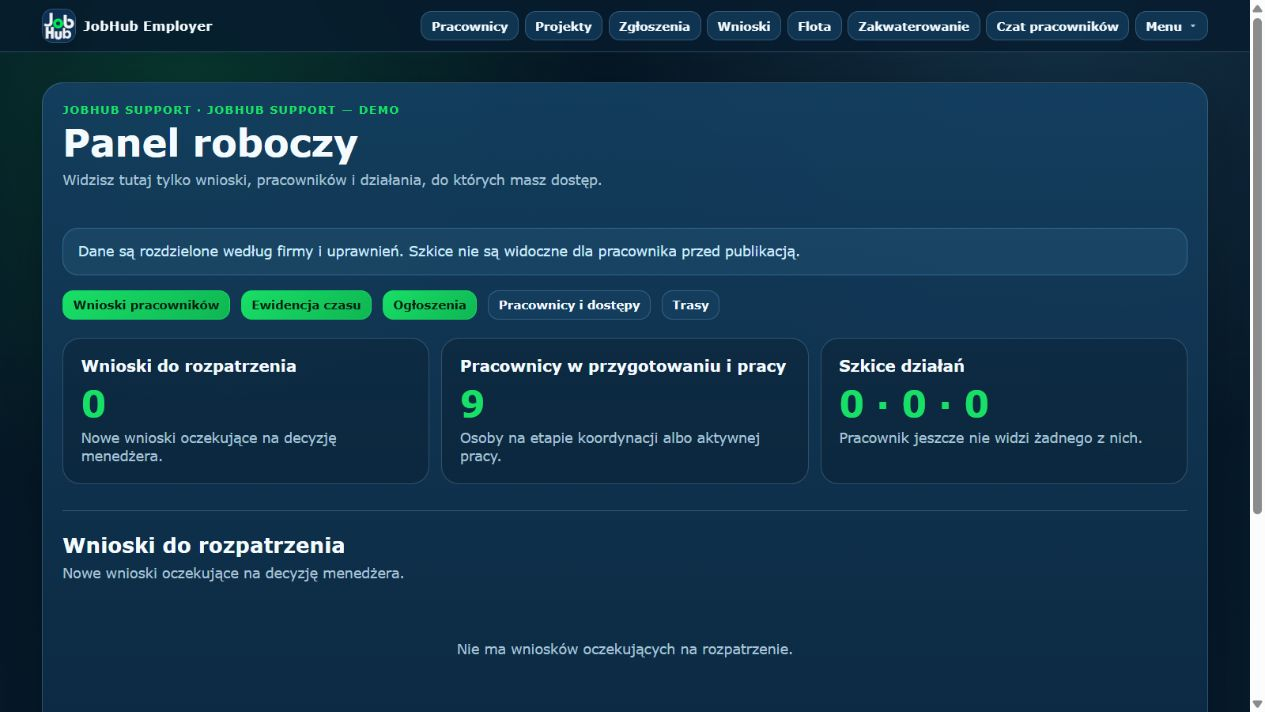
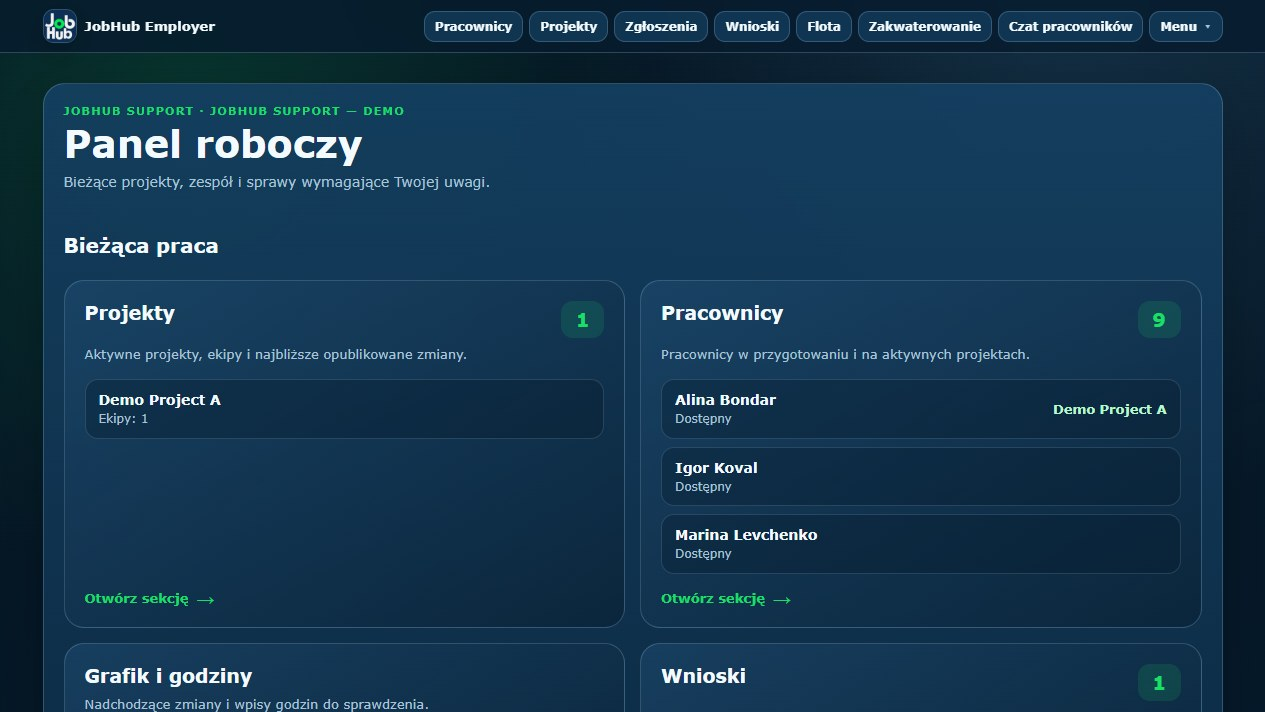
Publish localized JobHub Support guide with updated workspace screenshots

diff --git a/support-guide.html b/support-guide.html
@@ -17,7 +17,7 @@
   <link rel="apple-touch-icon" sizes="180x180" href="/assets/apple-touch-icon.png?v=20260217logo2">
   <link rel="stylesheet" href="/assets/styles.css?v=20260217j">
   <link rel="stylesheet" href="/assets/support-guide.css?v=20261004d">
-  <script defer src="/assets/app.js?v=20261004english-labels"></script>
+  <script defer src="/assets/app.js?v=20261005workspace"></script>
 </head>
 <body>
   <header class="site-header">
@@ -76,7 +76,7 @@
 
       <article class="guide-chapter" id="step-demo"><span class="guide-chapter-number">01</span><div class="guide-chapter-body"><h3><span class="lang-ru">Запросите демо версию</span><span class="lang-en">Request a demo version</span><span class="lang-pl">Poproś o wersję demo</span><span class="lang-uk">Запросіть демоверсію</span></h3><p><span class="lang-ru">Нажмите зелёную кнопку «Запросить демо версию» на этой странице. Откроется письмо в поддержку JobHub. Укажите название фирмы, примерное число одновременно работающих людей, тип проектов и контакт для ответа. Пароли, паспортные данные и документы не отправляйте. Мы согласуем дистанционный показ на вымышленных данных и отдельно обсудим подключение вашей фирмы.</span><span class="lang-en">Press “Request a demo version”. An email to JobHub support opens. Include your company name, approximate number of workers active at once, project type and reply contact. Do not send passwords or HR documents. We arrange a remote demonstration using fictional data and discuss company onboarding separately.</span><span class="lang-pl">Kliknij „Poproś o wersję demo”. Otworzy się wiadomość do JobHub. Podaj nazwę firmy, przybliżoną liczbę jednocześnie aktywnych pracowników, rodzaj projektów i kontakt. Nie wysyłaj haseł ani dokumentów kadrowych. Uzgodnimy zdalny pokaz na fikcyjnych danych, a podłączenie firmy omówimy osobno.</span><span class="lang-uk">Натисніть «Запросити демоверсію». Відкриється лист до підтримки JobHub. Вкажіть назву компанії, приблизну кількість одночасно активних працівників, тип проєктів і контакт. Не надсилайте паролі чи кадрові документи. Узгодимо дистанційний показ на вигаданих даних, а підключення обговоримо окремо.</span></p><p class="guide-outcome"><span class="lang-ru">Зачем: вы увидите весь процесс до подключения реальных работников и поймёте, какие права и рабочие данные понадобятся.</span><span class="lang-en">Why: see the entire workflow before connecting real workers and learn which roles and data are needed.</span><span class="lang-pl">Po co: zobaczysz cały proces przed dodaniem prawdziwych pracowników i ustalisz potrzebne role oraz dane.</span><span class="lang-uk">Навіщо: побачите весь процес до додавання реальних працівників і визначите потрібні ролі та дані.</span></p><p class="guide-example"><span class="lang-ru"><strong>Шаблон письма:</strong> фирма — [название]; одновременно работают — [примерно N человек]; проекты — [вид работ и город]; контакт для ответа — [имя, email или телефон].</span><span class="lang-en"><strong>Email template:</strong> company — [name]; workers active at once — [about N]; projects — [work type and city]; reply contact — [name, email or phone].</span><span class="lang-pl"><strong>Wzór e-maila:</strong> firma — [nazwa]; jednocześnie pracuje — [około N osób]; projekty — [rodzaj pracy i miasto]; kontakt — [imię, e-mail lub telefon].</span><span class="lang-uk"><strong>Шаблон листа:</strong> компанія — [назва]; одночасно працюють — [приблизно N людей]; проєкти — [тип роботи й місто]; контакт — [ім’я, email або телефон].</span></p><figure class="guide-inline-shot"><div class="guide-screen-wrap"><a href="/assets/support-guide/ru/demo-request.jpg" target="_blank" rel="noopener"><img src="/assets/support-guide/ru/demo-request.jpg" data-guide-shot="demo-request" width="1265" height="712" loading="lazy" alt="Кнопка запроса демо версии JobHub Support" data-alt-ru="Кнопка запроса демо версии JobHub Support" data-alt-en="JobHub Support demo request button" data-alt-pl="Przycisk prośby o demo JobHub Support" data-alt-uk="Кнопка запиту демоверсії JobHub Support"></a><span class="guide-pin guide-pin-r">1</span></div><figcaption><span class="lang-ru">1 — запрос демо открывает письмо. Впишите данные фирмы и контакт для ответа; доступ к рабочему кабинету появится после согласования подключения.</span><span class="lang-en">1 — the demo request opens an email. Add company details and a reply contact; workspace access follows onboarding.</span><span class="lang-pl">1 — prośba o demo otwiera e-mail. Podaj dane firmy i kontakt; dostęp do panelu następuje po podłączeniu.</span><span class="lang-uk">1 — запит демо відкриває лист. Вкажіть дані компанії та контакт; доступ до кабінету з’явиться після підключення.</span></figcaption></figure></div></article>
 
-      <article class="guide-chapter" id="step-entry"><span class="guide-chapter-number">02</span><div class="guide-chapter-body"><h3><span class="lang-ru">Войдите в кабинет подключённой фирмы</span><span class="lang-en">Open the connected company workspace</span><span class="lang-pl">Otwórz panel podłączonej firmy</span><span class="lang-uk">Відкрийте кабінет підключеної компанії</span></h3><p><span class="lang-ru">После подключения используйте свой JobHub-аккаунт в браузере или десктопном приложении. Откройте «Рабочий кабинет» нужной фирмы и проверьте её название вверху. Верхняя навигация ведёт к работникам, проектам, заявкам, запросам, жилью, автопарку и чатам; дополнительные разделы находятся в «Меню». Карточки кабинета показывают, что требует внимания. Если фирма или раздел не видны, проверьте выбранный аккаунт, принятие приглашения и выданные права.</span><span class="lang-en">After onboarding, sign in with your own JobHub account in the browser or desktop app. Open the right company’s Work workspace and check its name at the top. The main navigation covers workers, projects, applications, requests, housing, fleet and staff chats; Menu has more tools. Preview cards show current projects, workers, shifts, requests, tasks and resources. If a company or section is missing, check your account, accepted invitation and permissions.</span><span class="lang-pl">Po podłączeniu zaloguj się na własne konto JobHub w przeglądarce lub aplikacji desktopowej. Otwórz panel właściwej firmy i sprawdź jej nazwę u góry. Górna nawigacja prowadzi do pracowników, projektów, wniosków kandydatów, próśb pracowników, zakwaterowania, floty i czatów. Karty panelu pokazują bieżące projekty, pracowników, zmiany i sprawy wymagające uwagi. Jeśli firmy lub sekcji nie widać, sprawdź konto, zaproszenie i uprawnienia.</span><span class="lang-uk">Після підключення увійдіть у власний акаунт JobHub у браузері або десктопному застосунку. Відкрийте кабінет потрібної компанії та перевірте її назву вгорі. Верхня навігація веде до працівників, проєктів, заявок, запитів, житла, автопарку й чатів. Картки кабінету показують поточні проєкти, працівників, зміни та питання, що потребують уваги. Якщо компанію або розділ не видно, перевірте акаунт, прийняття запрошення і права.</span></p><p class="guide-outcome"><span class="lang-ru">Снимок обновлённого кабинета добавим после проверки нового экрана на подключённой фирме.</span><span class="lang-en">A screenshot of the updated workspace will follow verification with a connected company.</span><span class="lang-pl">Zrzut nowego panelu dodamy po sprawdzeniu go w podłączonej firmie.</span><span class="lang-uk">Знімок оновленого кабінету додамо після перевірки в підключеній компанії.</span></p></div></article>
+      <article class="guide-chapter" id="step-entry"><span class="guide-chapter-number">02</span><div class="guide-chapter-body"><h3><span class="lang-ru">Войдите в кабинет подключённой фирмы</span><span class="lang-en">Open the connected company workspace</span><span class="lang-pl">Otwórz panel podłączonej firmy</span><span class="lang-uk">Відкрийте кабінет підключеної компанії</span></h3><p><span class="lang-ru">После подключения используйте свой JobHub-аккаунт в браузере или десктопном приложении. Откройте «Рабочий кабинет» нужной фирмы и проверьте её название вверху. Верхняя навигация ведёт к работникам, проектам, заявкам, запросам, жилью, автопарку и чатам; дополнительные разделы находятся в «Меню». Карточки кабинета показывают, что требует внимания. Если фирма или раздел не видны, проверьте выбранный аккаунт, принятие приглашения и выданные права.</span><span class="lang-en">After onboarding, sign in with your own JobHub account in the browser or desktop app. Open the right company’s Work workspace and check its name at the top. The main navigation covers workers, projects, applications, requests, housing, fleet and staff chats; Menu has more tools. Preview cards show current projects, workers, shifts, requests, tasks and resources. If a company or section is missing, check your account, accepted invitation and permissions.</span><span class="lang-pl">Po podłączeniu zaloguj się na własne konto JobHub w przeglądarce lub aplikacji desktopowej. Otwórz panel właściwej firmy i sprawdź jej nazwę u góry. Górna nawigacja prowadzi do pracowników, projektów, wniosków kandydatów, próśb pracowników, zakwaterowania, floty i czatów. Karty panelu pokazują bieżące projekty, pracowników, zmiany i sprawy wymagające uwagi. Jeśli firmy lub sekcji nie widać, sprawdź konto, zaproszenie i uprawnienia.</span><span class="lang-uk">Після підключення увійдіть у власний акаунт JobHub у браузері або десктопному застосунку. Відкрийте кабінет потрібної компанії та перевірте її назву вгорі. Верхня навігація веде до працівників, проєктів, заявок, запитів, житла, автопарку й чатів. Картки кабінету показують поточні проєкти, працівників, зміни та питання, що потребують уваги. Якщо компанію або розділ не видно, перевірте акаунт, прийняття запрошення і права.</span></p><figure class="guide-inline-shot"><div class="guide-screen-wrap"><a href="/assets/support-guide/ru/home.jpg" target="_blank" rel="noopener"><img src="/assets/support-guide/ru/home.jpg" data-guide-shot="home" width="1265" height="712" loading="lazy" alt="Обновлённый кабинет вымышленной фирмы" data-alt-ru="Обновлённый кабинет вымышленной фирмы" data-alt-en="Updated workspace of a fictional company" data-alt-pl="Zaktualizowany panel fikcyjnej firmy" data-alt-uk="Оновлений кабінет вигаданої компанії"></a><span class="guide-pin guide-pin-a">1</span><span class="guide-pin guide-pin-b">2</span><span class="guide-pin guide-pin-c">3</span></div><figcaption><span class="lang-ru">1 — выбранная фирма; 2 — разделы управления; 3 — карточки с актуальными проектами, работниками и вопросами, требующими внимания. Нажмите на снимок для увеличения.</span><span class="lang-en">1 — selected company; 2 — management sections; 3 — preview cards with current projects, workers and items needing attention. Open the image to zoom.</span><span class="lang-pl">1 — wybrana firma; 2 — sekcje zarządzania; 3 — karty z bieżącymi projektami, pracownikami i sprawami wymagającymi uwagi. Otwórz obraz, aby go powiększyć.</span><span class="lang-uk">1 — вибрана компанія; 2 — розділи керування; 3 — картки з поточними проєктами, працівниками й питаннями, що потребують уваги. Відкрийте знімок для збільшення.</span></figcaption></figure><p class="guide-outcome"><span class="lang-ru">Зачем: с первого экрана видно текущую работу фирмы и можно сразу перейти к нужному разделу.</span><span class="lang-en">Why: see current company work at a glance and go straight to the relevant section.</span><span class="lang-pl">Po co: od razu widać bieżącą pracę firmy i można przejść do właściwej sekcji.</span><span class="lang-uk">Навіщо: з першого екрана видно поточну роботу компанії й можна відразу перейти до потрібного розділу.</span></p></div></article>
 
       <article class="guide-chapter" id="step-people"><span class="guide-chapter-number">03</span><div class="guide-chapter-body"><h3><span class="lang-ru">Пригласите работника и настройте доступ менеджера</span><span class="lang-en">Invite a worker and set manager access</span><span class="lang-pl">Zaproś pracownika i ustaw dostęp menedżera</span><span class="lang-uk">Запросіть працівника і налаштуйте доступ менеджера</span></h3><p><span class="lang-ru">В «Работниках» нажмите «Добавить работника по email». Введите адрес уже зарегистрированного JobHub-аккаунта и, при необходимости, удобное имя внутри фирмы и ответственного менеджера. Работник принимает приглашение в своём мобильном приложении; до подтверждения он не получает доступ к фирме. Список показывает назначение на проект, жильё, работу и роль в транспорте. Для сотрудника фирмы откройте «Рабочий кабинет» → «Сотрудники и доступы»: выберите права и отдельно круг работников, с которыми он может работать. Бухгалтеру для самостоятельной выгрузки понадобится право «Выгрузка рабочих часов».</span><span class="lang-en">In Workers, choose “Add a worker by email”. Enter an existing JobHub account email, optionally a company display name and responsible manager. The worker accepts in the mobile app; access begins only then. To invite staff, open Work workspace → Staff and access and set both permissions and the workers in scope. An accountant who exports files needs the “Exporting work hours” permission.</span><span class="lang-pl">W Pracownikach wybierz „Dodaj pracownika przez e-mail”. Podaj adres istniejącego konta JobHub, opcjonalnie nazwę w firmie i odpowiedzialnego menedżera. Pracownik przyjmuje zaproszenie w aplikacji. Dostęp zaczyna się dopiero po akceptacji. W Panelu → Personel i dostęp ustaw osobno uprawnienia i zakres pracowników. Księgowy eksportujący pliki potrzebuje uprawnienia „Eksport godzin pracy”.</span><span class="lang-uk">У «Працівниках» виберіть «Додати працівника за email». Вкажіть адресу наявного акаунта JobHub, за потреби ім’я в компанії та відповідального менеджера. Працівник приймає запрошення у застосунку; доступ з’являється лише після цього. У «Співробітниках і доступах» окремо задайте права й коло працівників. Бухгалтеру для експорту потрібне право «Вивантаження робочих годин».</span></p><div class="guide-inline-pair"><figure class="guide-inline-shot"><div class="guide-screen-wrap"><a href="/assets/support-guide/ru/workers.jpg" target="_blank" rel="noopener"><img src="/assets/support-guide/ru/workers.jpg" data-guide-shot="workers" width="1265" height="712" loading="lazy" alt="Список работников демофирмы" data-alt-ru="Список работников демофирмы" data-alt-en="Fictional company worker list" data-alt-pl="Lista pracowników fikcyjnej firmy" data-alt-uk="Список працівників вигаданої компанії"></a><span class="guide-pin guide-pin-d">1</span><span class="guide-pin guide-pin-e">2</span></div><figcaption><span class="lang-ru">1 — кнопка приглашения; 2 — назначение работника видно сразу в списке.</span><span class="lang-en">1 — invite button; 2 — worker assignments in the list.</span><span class="lang-pl">1 — przycisk zaproszenia; 2 — przydziały pracownika na liście.</span><span class="lang-uk">1 — кнопка запрошення; 2 — призначення працівника у списку.</span></figcaption></figure><figure class="guide-inline-shot"><div class="guide-screen-wrap"><a href="/assets/support-guide/ru/team.jpg" target="_blank" rel="noopener"><img src="/assets/support-guide/ru/team.jpg" data-guide-shot="team" width="1265" height="712" loading="lazy" alt="Управление правами сотрудника" data-alt-ru="Управление правами сотрудника" data-alt-en="Staff permission management" data-alt-pl="Zarządzanie uprawnieniami personelu" data-alt-uk="Керування правами співробітника"></a><span class="guide-pin guide-pin-f">3</span><span class="guide-pin guide-pin-g">4</span></div><figcaption><span class="lang-ru">3 — приглашение сотрудника; 4 — набор разрешений. Права и доступ к конкретным работникам задаются отдельно.</span><span class="lang-en">3 — staff invitation; 4 — permissions. Worker scope is configured separately.</span><span class="lang-pl">3 — zaproszenie pracownika biura; 4 — uprawnienia. Zakres pracowników ustawia się osobno.</span><span class="lang-uk">3 — запрошення співробітника; 4 — права. Коло працівників налаштовують окремо.</span></figcaption></figure></div><figure class="guide-inline-shot guide-compact-shot"><div class="guide-screen-wrap"><a href="/assets/support-guide/ru/worker-invite.jpg" target="_blank" rel="noopener"><img src="/assets/support-guide/ru/worker-invite.jpg" data-guide-shot="worker-invite" width="1265" height="712" loading="lazy" alt="Форма приглашения работника по email" data-alt-ru="Форма приглашения работника по email" data-alt-en="Worker invitation by email form" data-alt-pl="Formularz zaproszenia pracownika e-mailem" data-alt-uk="Форма запрошення працівника за email"></a><span class="guide-pin pin-invite-email">1</span><span class="guide-pin pin-invite-name">2</span><span class="guide-pin pin-invite-manager">3</span><span class="guide-pin pin-invite-send">4</span></div><figcaption><span class="lang-ru">1 — email личного JobHub-аккаунта; 2 — имя внутри фирмы; 3 — ответственный менеджер и координатор; 4 — отправка приглашения. Доступ появится после принятия.</span><span class="lang-en">1 — personal JobHub account email; 2 — company display name; 3 — responsible manager and coordinator; 4 — send. Access begins after acceptance.</span><span class="lang-pl">1 — e-mail osobistego konta JobHub; 2 — nazwa w firmie; 3 — menedżer i koordynator; 4 — wyślij. Dostęp zaczyna się po przyjęciu.</span><span class="lang-uk">1 — email особистого акаунта JobHub; 2 — ім’я у компанії; 3 — менеджер і координатор; 4 — надіслати. Доступ з’явиться після прийняття.</span></figcaption></figure><p class="guide-outcome"><span class="lang-ru">Зачем: каждый работает в собственном аккаунте, а менеджер видит только порученных ему людей и операции.</span><span class="lang-en">Why: everyone uses their own account, while staff only see assigned people and actions.</span><span class="lang-pl">Po co: każdy używa własnego konta, a personel widzi tylko przydzielone osoby i działania.</span><span class="lang-uk">Навіщо: кожен користується власним акаунтом, а співробітник бачить лише призначених людей і дії.</span></p></div></article>
 

diff --git a/assets/app.js b/assets/app.js
@@ -77,7 +77,7 @@
   function syncGuideImages(lang) {
     document.querySelectorAll('img[data-guide-shot]').forEach((img) => {
       const shot = img.getAttribute('data-guide-shot');
-      const path = `/assets/support-guide/${lang}/${shot}.jpg?v=20261004english-labels`;
+      const path = `/assets/support-guide/${lang}/${shot}.jpg?v=20261005workspace`;
       img.setAttribute('src', path);
       const link = img.closest('a');
       if (link) link.setAttribute('href', path);

diff --git a/SUPPORT_GUIDE_SCREENSHOT_MATRIX.md b/SUPPORT_GUIDE_SCREENSHOT_MATRIX.md
@@ -12,7 +12,7 @@ checks that every referenced shot exists in all four languages.
 | Shot | What the screenshot explains |
 |---|---|
 | `demo-request` | Demo request entry point on the site. |
-| `home` | Company workspace, navigation and shortcuts. |
+| `home` | Updated company workspace, navigation and live preview cards. |
 | `workers` | Worker list, assignments and invitation entry point. |
 | `team` | Staff invitation and access permissions. |
 | `worker-invite` | Worker email invitation, manager and coordinator fields. |
@@ -26,9 +26,12 @@ checks that every referenced shot exists in all four languages.
 | `housing` | Occupied and available housing places. |
 | `fleet` | Vehicle, available seats, driver and route. |
 
-All captures were made on 4 October 2026 from the isolated local
+The original captures were made on 4 October 2026 from the isolated local
 `tmp/support-guide-demo.sqlite3` fixture, using the employer web UI. The
-fictional worker request and submitted time entry exist only in that local
+four `home` images were recaptured on 5 October 2026 at 1265 × 712 from the
+same fixture and the updated Support manager workspace. The images show the
+first project and worker preview cards, not the previous draft shortcuts.
+The fictional worker request and submitted time entry exist only in that local
 fixture. The announcement is deliberately unsaved. No pilot or production
 worker data was copied. Interface chrome follows the selected language. The
 fictional project and crew names, worker names, addresses and other visible
@@ -40,12 +43,11 @@ Run `python tools/prepare_support_guide_fixture.py tmp/support-guide-demo.sqlite
 from `T:/JobApp` before taking another set of screenshots from a newly created
 isolated fixture. The script changes only that local SQLite file.
 
-The local browser validation checked the language switch, image paths, full-size
-links and captions. In a separate backend worktree, the timesheet weekday
-headings, project calendar month and two fleet table headings were corrected
-for language consistency before the final captures. These backend changes are
-local until reviewed and deployed, so the guide's new localized captures should
-not be published against an older production backend without that check.
+The local browser validation checks the language switch, image paths, full-size
+links and captions. The screenshot source includes the updated manager workspace
+and the language fixes for the timesheet weekday headings, project calendar
+month and fleet table headings. Compare these screens with the deployed Support
+version before publication; site publication alone does not update the backend.
 
 These are explanatory examples, not evidence that every workflow has passed on
 both mobile platforms. Future mobile illustrations should use current accepted
